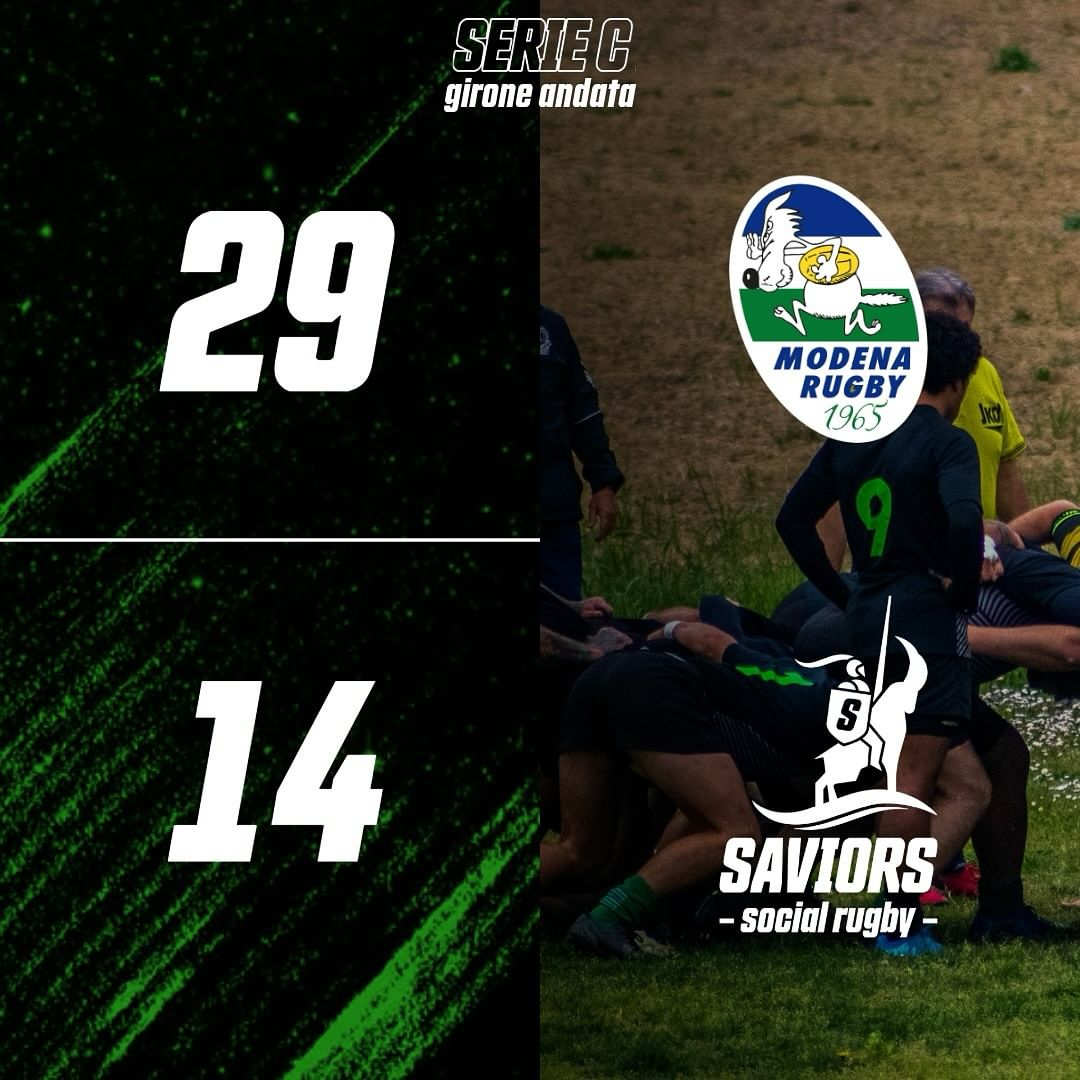
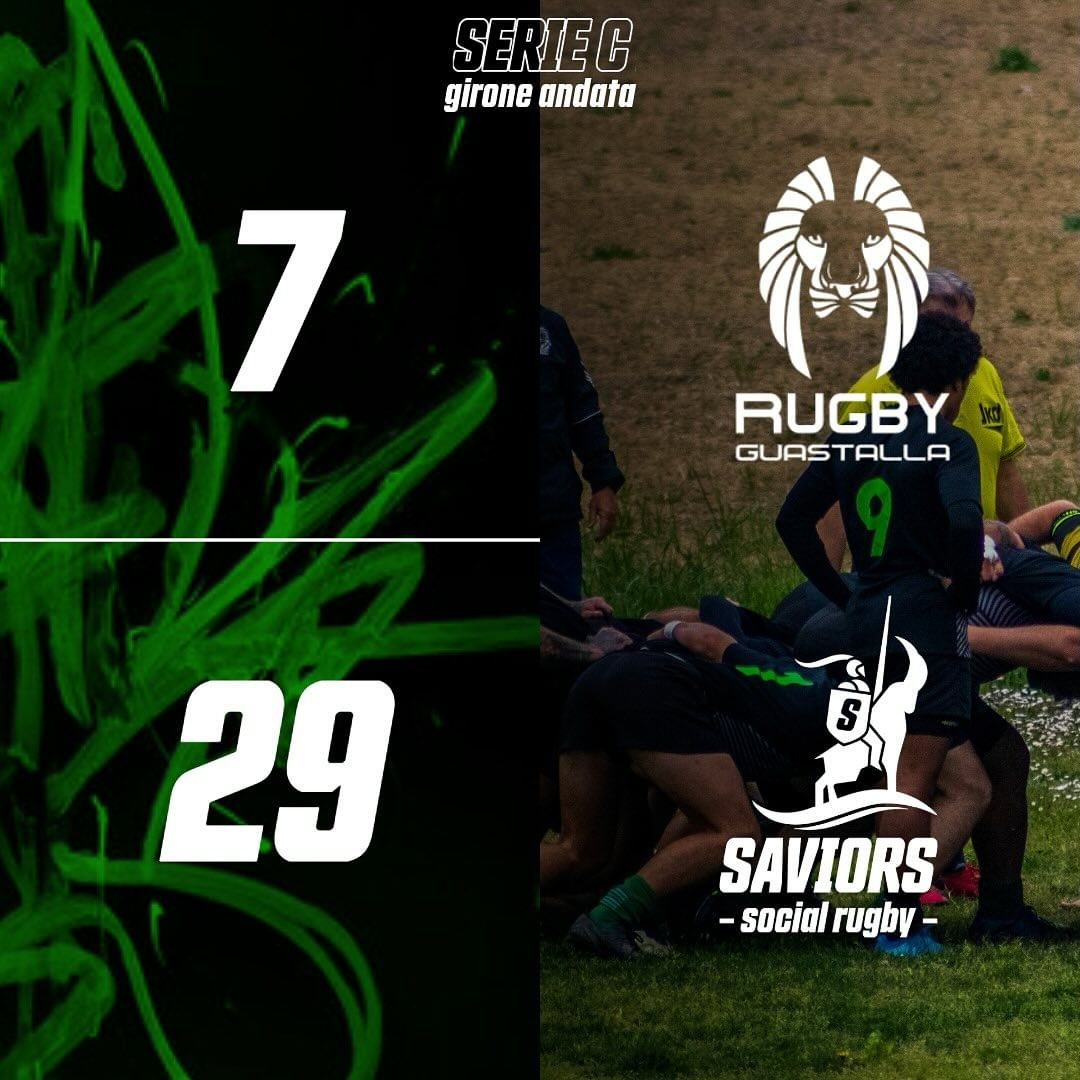
add: next match, last match

diff --git a/content/posts/last-match/index.md b/content/posts/last-match/index.md
@@ -1,13 +1,13 @@
 ---
-title: "Ultimo Match:<br/>Modena Rugby vs Saviors Social Rugby (29 - 14)"
-date: "2024-10-27"
+title: "Ultimo Match:<br/>Guastalla 2008 vs Saviors Social Rugby (7 - 29)"
+date: "2024-11-17"
 sharingLinks:
   - facebook
   - whatsapp
   - telegram
 tags:
   - Saviors
-  - Modena
+  - Guastalla
 showDate: false
 showHeadingAnchors: false
 showHero: false
@@ -15,10 +15,10 @@ weight: 2
 hide: true
 ---
 
+| Giornata  | Data       | Orario | Casa                 | Ospiti                       | Indirizzo             |
+| --------- | ---------- | ------ | -------------------- | ---------------------------- | --------------------- |
+| 3ᵃ Andata | 17/11/2024 | 14:30  | Rugby Guastalla 2008 | **Saviors Social Rugby ASD** | Ferrarini - Guastalla |
+
 ![](./featured.jpg)
 
-| Giornata  | Data       | Orario | Casa                    | Ospiti                       | Indirizzo                      |
-| --------- | ---------- | ------ | ----------------------- | ---------------------------- | ------------------------------ |
-| 1ᵃ Andata | 27/10/2024 | 14:30  | Modena Rugby 1965 nr. 2 | **Saviors Social Rugby ASD** | Str. Collegarola 80/B - Modena |
-
-<!-- ![](./team.jpg) -->
+![](./team.jpg)

diff --git a/content/posts/next-match/index.md b/content/posts/next-match/index.md
@@ -1,13 +1,13 @@
 ---
-title: "Prossimo Match:<br/>Guastalla 2008 vs Saviors Social Rugby"
-date: "2023-11-17"
+title: "Prossimo Match:<br/>Saviors Social Rugby vs Rugby Colorno 1975"
+date: "2023-11-19"
 sharingLinks:
   - facebook
   - whatsapp
   - telegram
 tags:
   - Saviors
-  - Modena
+  - Colorno
 showDate: false
 showHeadingAnchors: false
 showHero: false
@@ -15,9 +15,9 @@ weight: 1
 hide: true
 ---
 
-| Giornata  | Data       | Orario | Casa                 | Ospiti                       | Indirizzo             |
-| --------- | ---------- | ------ | -------------------- | ---------------------------- | --------------------- |
-| 3ᵃ Andata | 17/11/2024 | 14:30  | Rugby Guastalla 2008 | **Saviors Social Rugby ASD** | Ferrarini - Guastalla |
+| Giornata  | Data       | Orario | Casa                         | Ospiti                  | Indirizzo                               |
+| --------- | ---------- | ------ | ---------------------------- | ----------------------- | --------------------------------------- |
+| 4ᵃ Andata | 08/12/2024 | 14:30  | **Saviors Social Rugby ASD** | Rugby Colorno 1975 nr.3 | Via Roversano 2815, 47522 - Cesena (FC) |
 
 <!-- ![](./featured.jpg) -->
 
